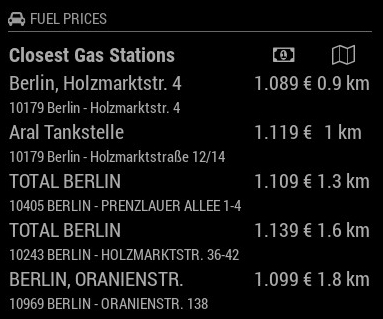
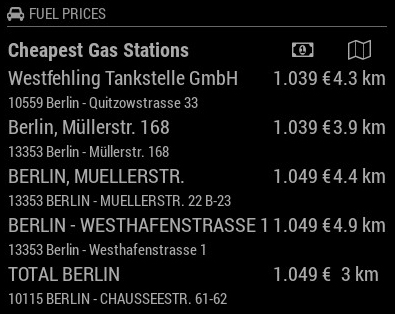
preview

diff --git a/README.md b/README.md
@@ -3,7 +3,7 @@ Gas Station price Module for MagicMirror<sup>2</sup>
 
 ## Example
 
-![](.github/example.jpg)
+![](.github/example.jpg) ![](.github/example2.jpg)
 
 ## Dependencies
   * An installation of [MagicMirror<sup>2</sup>](https://github.com/MichMich/MagicMirror)
